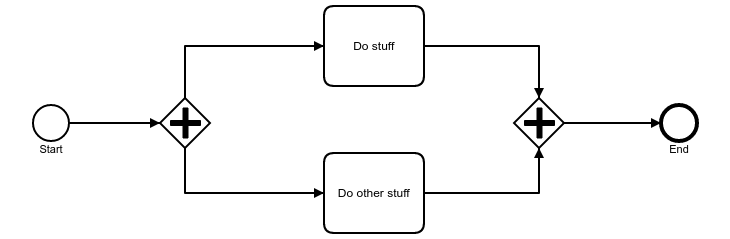
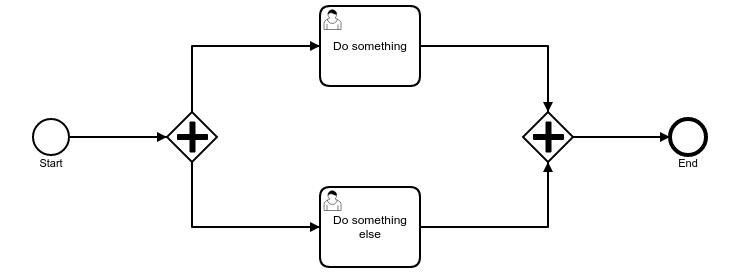
docs(optimisticLocking): improved Optimistic Locking in Camunda
related to #CAM-6331

diff --git a/content/user-guide/process-engine/transactions-in-processes.md b/content/user-guide/process-engine/transactions-in-processes.md
@@ -305,82 +305,83 @@ However since pessimistic locks are exclusive, concurrency is reduced degrading 
 
 ## Optimistic Locking in Camunda
 
-* Camunda uses Optimistic Locking for concurrency control
-* When a concurrency conflict is detected an exception is thrown and the transaction is rolled back
+Camunda uses the Optimistic Locking for concurrency control. Is a concurency conflict detected
+an exception is thrown and the transaction is rolled back. Conflicts are detected as written before via the result of executed SQL statements.
+The execution of delete or update statements return an row count. 
+Is the row count equal to zero, it indicates that the row was updated or deleted before.
+In such cases a conflict is detected and an `OptimisticLockingException` is thrown.
 
 ### The OptimisticLockingException
 
-* Can be thrown by Api methods
+The `OptimisticLockingException` can be thrown by API methods.
+For example if an task should be completed:
+
 
 ```java
 taskService.completeTask(aTaskId); // may throw OptimisticLockingException
 ```
-and Job Execution
 
-* Means that another transaction worked on the same data concurrently
-* Expected behavior in such cases
+The job execution can also end in an `OptimisticLockingException`. After that, the execution will be retried.
+The occurrence is in such cases expected behavior and means that another transaction
+worked on the same data concurrently.
 
-* Handling optimistic locking exceptions
 
-** Retries (automatically done by Job Executor)
-** Manual undo and compensation
+#### Handling optimistic locking exceptions
 
-  The optimistic concurrency control is implemented with the help of the `OptimisticLockingException`,
-  which indicates that a problem regarding optimistic locking appeared. The camunda engine collect all
-  changes during a transaction and execute them, if the transaction should be commited.
-  A change can be a variable value update or something else.
-  In case of an update or a deletion the affected rows will be checked. If there is no row affected, this indicates that
-  the current state differs from the state, on which the transaction has worked on. In this case
-  the `OptimisticLockingException` will be thrown and a rollback is executed. After the rollback, the transaction
-  will be retried.
+Like written before the `OptimisticLockingException` will be handled automaticly from the Job Executor,
+if it is thrown during job execution. The job will be retried, without decrement the retry count.
+
+On other places the Camunda Engine will rollback the current transaction to the last safe point (wait state), on occurence of an `OptimisticLockingException`.
+The user have to decide if the transaction should be retried or not. He have to ensure that changes and operations, which are done during the transaction, are
+idempotent or undone after a rollback. It is possible to use compensation to prevent the redo of the hole work that was done by a transaction. 
+To create new save points on activities the properties `asyncAfter` and `asyncBefore` can be used.
+
+#### Example
+
+ Back to the example from above, on which the `Transaction 1` deletes a row and another `Transaction 2` wants to update the same row.
+ The scenario will now mapped to the behavior of the Camunda Engine.
+ 
+ `Transaction 1` succeeds with the deletion of the row. `Transaction 2` executes the update statement. The resulting row count is zero.
+ That indicates a conflict and an `OptimisticLockingException` is thrown. The `Transaction 2` will be rolled back. The user can decied to
+ retry this transaction. On retry, the `Transaction 2` wouldn't find a row on `read`. After this state the `Transaction 2` will end. 
 
 ### Common places where Optimistic Locking Exceptions are thrown
 
-* Competing External Requests (same task completed twice, concurrently)
-* Synchronization Points inside Processes (Examples: Parallel GW, Multi instance ...)
+There a some common places where the `OptimisticLockingException` is thrown.
+For example competing external requests like the same task will be completed twice concurrently.
+Common place are also synchronization points inside processes. Examples are parallel gateway, multi instances, etc.
 
- {{< img src="../img/optimisticLockingParallel.png" title="Optimistic locking in parallel gateway" >}}
+The following model shows a parallel gateway, on which the `OptimisticLockingException` can occure.
+
+{{< img src="../img/optimisticLockingParallel.png" title="Optimistic locking in parallel gateway" >}}
+
+There are two user tasks, after the opening parallel gateway. The closing parallel gateway, after the user tasks, merge the executions to one.
+In the most cases one of the user task will be completed at first. The transaction waits on the closing parallel gateway until the second user task is completed.
+
+It is possible that both user tasks are completed concurrently. Say the user task above is completed. The transaction assumes he is the first on the closing parallel gateway.
+The user task below is completed concurrently and the transaction also assumes he is the first on the closing parallel gateway.
+Both transactions try to update a row, which indicates that they are the first on the closing parallel gateway. In such cases  an `OptimisticLockingException` will be thrown.
+One of the transaction have to rollback and one will succeed to updated the row. Which of them succeed is nondeterministic.
 
 ### Optimistic Locking and Non-Transactional Side Effects
 
-* When OLE occurs Transaction is rolled back => Any transactional work is "undone"
-* But: non-transactional work is not undone => Inconsistent state
-* Solutions
-** Ignore
-** Depending on way OLE is handled: 
-*** Retries: non-transactional work will be repeated as well => needs to be able to cope with retries (Idempotence)
-*** No Retires: manual undo / compensation
+After the occurence of an `OptimisticLockingException` the transaction is rolled back. Any transaction work will be undone.
+Non-transaction work like creation of files or other will not be undone. This can end in inconsistent state.
+There are several solutions for this problem, at first it can be simply ignored.
+
+Other solutions depend on the handling of the `OptimisticLockingException`. On retries non-transactional work will be repeated as well.
+It needs to be able to cope with retries, which means it should be idempotent.
+No retries needs manual undo / compensation of non-transactional work.
 
 ### Internal Implementation Details
 
-* Version Columns in the database
-* Check at the end of a Command
-* Transaction Rollback
+The Camunda Engine database tables contains a column called `REV_`. This column represents the revision version of the current data.
+Update and delete statements are executed with a where clause. These clause will always contain the current revision version.
+On updates the revision version will be incremented. 
 
-  In the sections above the behavior in case of exceptions and rollbacks are
-  already described. You can read in the documentation that if exceptions during execution appear the
-  camunda transaction will be rolled back to the latest waiting state or till the begin of the process instance.
-  The same behavior takes effect in case of `OptimisticLockingException`.
+The execution of an update or delete will use the current revision version. If concurrent an update or delete is executed or was execute before,
+the update or delete will aim on an old revision version. No update or delete is execute and an zero row count is returned from the database management system.
+In such cases an `OptimisticLockingException` is thrown, since this indicates a conflict with a concurrent transaction.
+The check of the row count will be done by the engine, on the end of an executed command. 
 
-  The `OptimisticLockingException` can appear, like written before, in case of updates and deletions of
-  variables and also on parallel gateways.
-
-
-  As an example for the optimistic locking in camunda see the process definition in figure above.
-  There is a process with a parallel gateway, which do two tasks in parallel.
-  In the closing parallel gateway the first token will wait until the second token came across. After
-  all tokens in all ingoing edges have arrived the execution will be continued. In this case the process will end
-  in the end event.
-
-  Say both tasks have almost the same execution time.
-  They end in the closing parallel gateway and the first token of the path above assumes he is the first.
-  The first token updates in the database that he is the first and waits until all tokens will arrive.
-  Also the second token assume that he is the first token. Because the tasks are processed in almost the same time and
-  the first token has not commited his transaction at this time. The second token reads at the closing parallel gateway
-  that he is the first and want to update his state. But if the second token wants to commit his transaction
-  the first has already commited his transaction. The `OptimisticLockingException` will be thrown
-  because the second can't also be the first token. So the transaction of the second token will be rolled back,
-  either till the starting parallel gateway or another transaction border. For example
-  if the asyncBefore is set at the task ''Do other stuff'' then before the beginning of the task. If the asyncAfter
-  is set, then after the task. If the task is an user task the transaction is rolled back to the point before the user task,
-  like the asyncBefore is set.
+In cases of a thrown `OptimisticLockingException` the transaction is rolled back to the latest waiting state.
